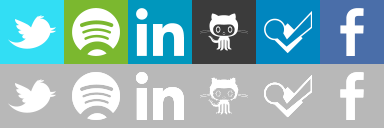
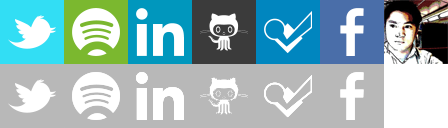
add my face to the sprite so that the same image loads everything

diff --git a/style/bryan.css b/style/bryan.css
@@ -2,7 +2,6 @@ body { padding-top:128px; background-color:#f1f1f1; }
 .center { text-align:center; }
 
 .icon:hover { opacity:1.0; }
-
 .icon {
 	background:transparent url("../img/icons_64.png") no-repeat -384px -128px;
 	width:64px; height:64px;
@@ -15,6 +14,7 @@ body { padding-top:128px; background-color:#f1f1f1; }
 	transition:opacity 1s linear 0s;
 }
 
+.icon.me { background-position:-384px 0px; }
 .icon.twitter { background-position:0px -64px; }
 .icon.spotify { background-position:-64px -64px; }
 .icon.linkedin { background-position:-128px -64px; }

diff --git a/index.html b/index.html
@@ -13,7 +13,7 @@
 <body>
 
 <p class="center">
-	<img src="img/me.png" alt="me" class="icon" />
+	<i class="icon me"></i>
 	<a href="http://www.facebook.com/bestrada" target="_blank"><i class="icon facebook"></i></a>
 	<a href="http://www.linkedin.com/in/bestrada/" target="_blank"><i class="icon linkedin"></i></a>
 	<a href="http://twitter.com/bryanestrada" target="_blank"><i class="icon twitter"></i></a>
